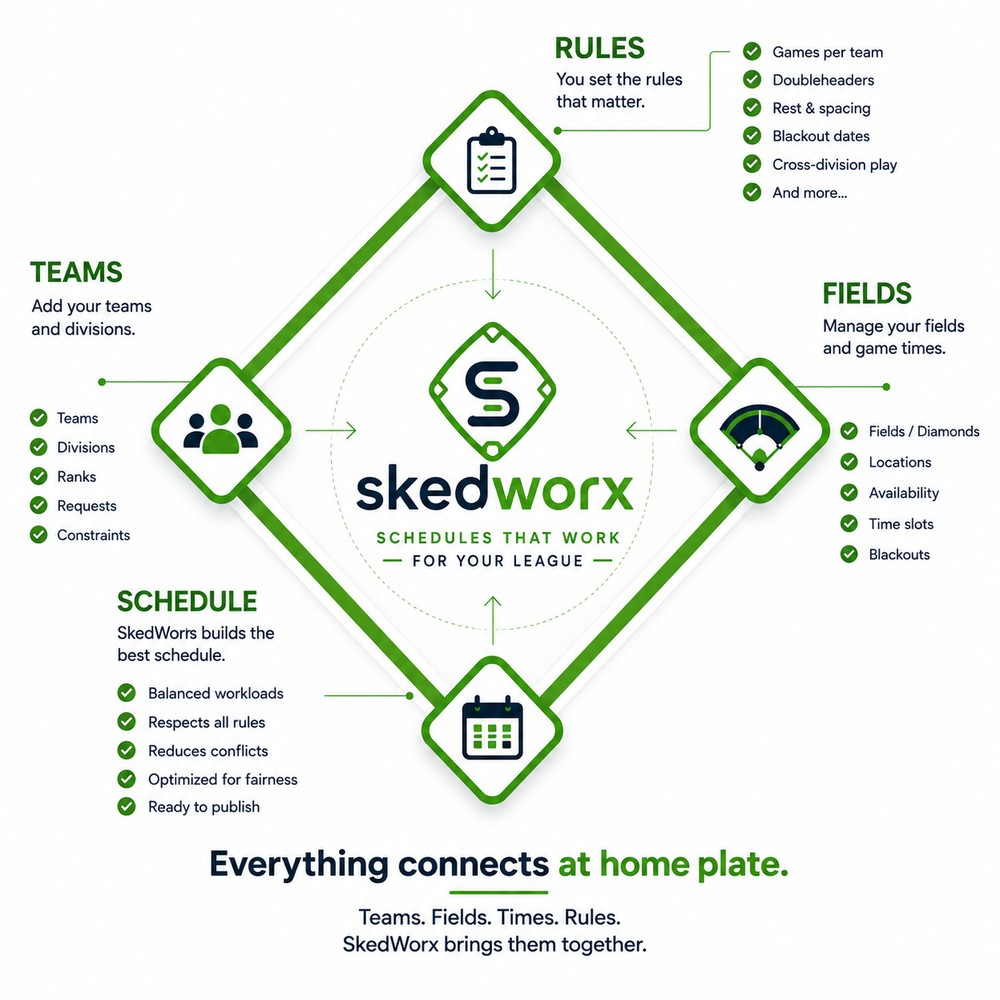
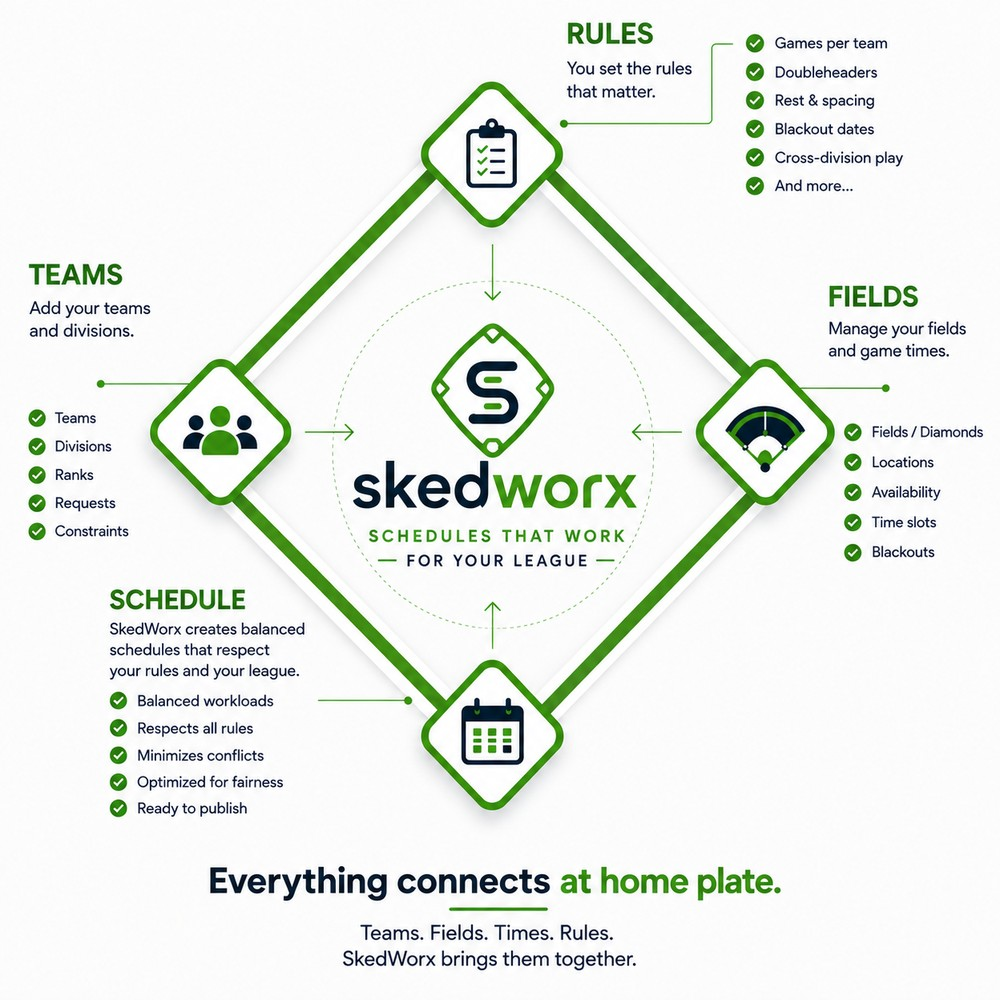
Use the corrected home plate artwork
The supplied illustration had "SkedWorrs builds the best schedule" baked into
the SCHEDULE quadrant. The replacement fixes the name and rewords that panel,
so the alt text is updated to match what the image now actually says --
minimizing conflicts and fairness, where it previously read reducing
conflicts.

Same pipeline as the other illustrations: flattened onto white, capped at
1000px, progressive JPEG at q90. 1.21 MB source down to 162 KB shipped.

diff --git a/templates/home.html b/templates/home.html
@@ -263,7 +263,7 @@
          plate" line, so the surrounding copy stays short rather than restating it. -->
     <img class="story-img plate mt-4"
          src="{{ url_for('static', filename='img/home-plate.jpg') }}"
-         alt="A baseball diamond diagram. Teams, rules, fields and schedule sit at the four bases and feed into skedworx at the centre. Teams covers teams, divisions, ranks, requests and constraints; rules covers games per team, doubleheaders, rest and spacing, blackout dates and cross-division play; fields covers diamonds, locations, availability, time slots and blackouts; schedule covers balanced workloads, respecting rules, reducing conflicts and being ready to publish. Caption: everything connects at home plate."
+         alt="A baseball diamond diagram. Teams, rules, fields and schedule sit at the four bases and feed into skedworx at the centre. Teams covers teams, divisions, ranks, requests and constraints; rules covers games per team, doubleheaders, rest and spacing, blackout dates and cross-division play; fields covers diamonds, locations, availability, time slots and blackouts; schedule covers balanced workloads, respecting all rules, minimizing conflicts, fairness and being ready to publish. Caption: everything connects at home plate. Teams, fields, times and rules — skedworx brings them together."
          loading="lazy" decoding="async">
 
     <p class="lead-muted text-center mx-auto mt-4 mb-0" style="max-width:38rem">

diff --git a/README.md b/README.md
@@ -601,7 +601,7 @@ artwork in at these paths:
 | `static/img/skedworx-icon.png` | Nav and compact placements | supplied at final size |
 | `static/img/favicon.png` | Browser tab | `static/img/skedworx-icon.png` |
 | `static/img/spreadsheet-chaos.jpg` | Homepage: the problem | `brand/spreadsheet_solving.png` |
-| `static/img/home-plate.jpg` | Homepage: how it fits together | `brand/diamond_problem_matrix.png` |
+| `static/img/home-plate.jpg` | Homepage: how it fits together | `brand/diamond-problem-matrix.png` |
 
 Originals live in `brand/`, outside `static/`, so the full-resolution art and the
 brand sheet are not served over the web. The versions under `static/img/` are resized
@@ -628,7 +628,7 @@ def flat(src, box):
     return bg
 
 for src, dst, box in (('brand/spreadsheet_solving.png',    'static/img/spreadsheet-chaos.jpg', (1200, 1200)),
-                      ('brand/diamond_problem_matrix.png', 'static/img/home-plate.jpg',        (1000, 1000))):
+                      ('brand/diamond-problem-matrix.png', 'static/img/home-plate.jpg',        (1000, 1000))):
     flat(src, box).save(dst, quality=90, optimize=True, progressive=True)
 
 flat('brand/hero-img.png', (960, 960)).quantize(colors=128).save(
